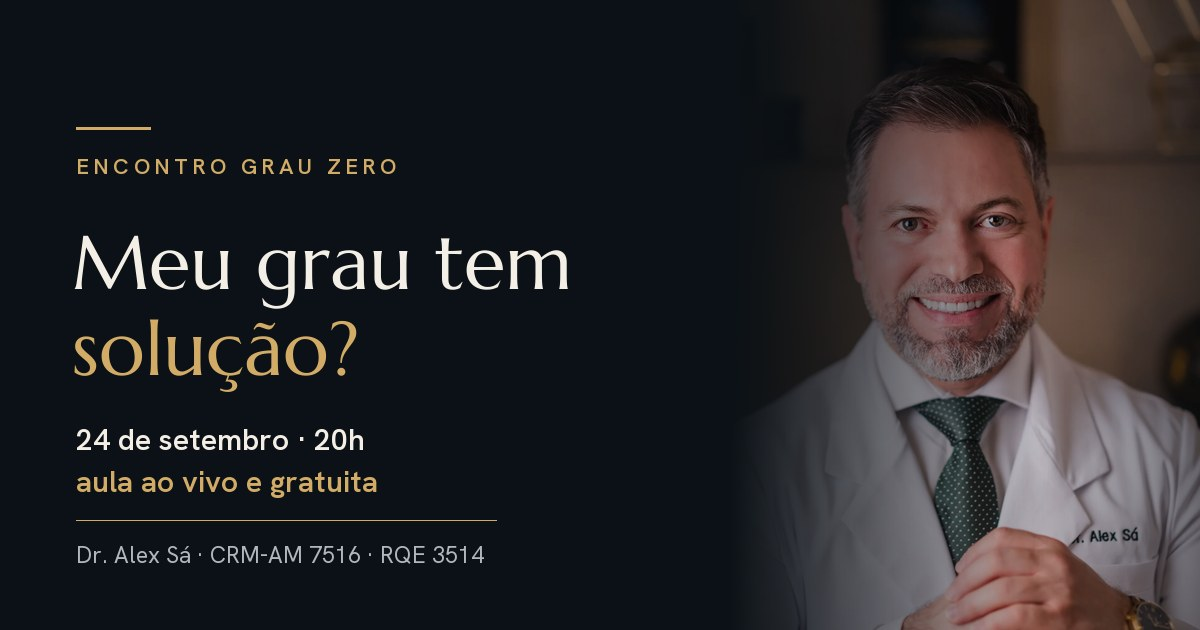
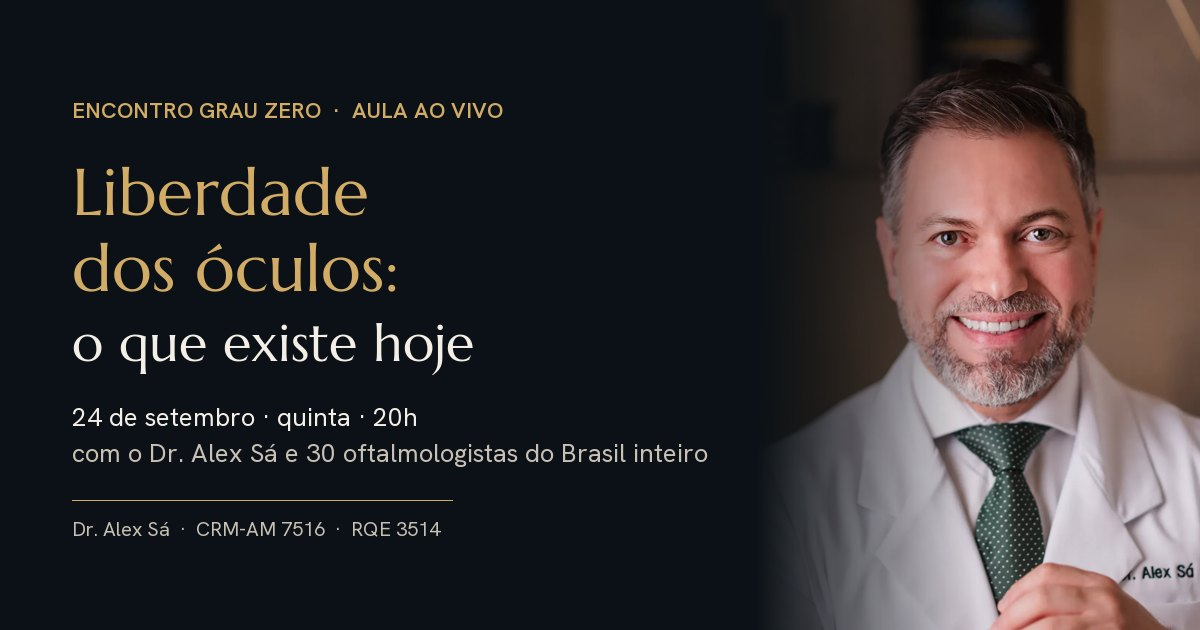
LP Encontro Grau Zero: copy v2 com o feedback do Dr. Alex
Headline vira "Liberdade dos oculos: o que existe hoje"; sub e bio citam os 30 oftalmologistas do Brasil inteiro;
presbiopia entra no caminho do laser; mito dos 40 passa a "laser ou troca do cristalino"; +30 mil cirurgias;
"gratuito" sai do hero, da barra fixa e do CTA final (fica na FAQ e no disclaimer). og.jpg regenerado.

diff --git a/public/encontro-grau-zero/index.html b/public/encontro-grau-zero/index.html
@@ -5,15 +5,15 @@
 <meta name="viewport" content="width=device-width, initial-scale=1">
 <meta name="robots" content="noindex, nofollow">
 <meta name="theme-color" content="#0B1116">
-<title>Encontro Grau Zero · Aula ao vivo e gratuita com o Dr. Alex Sá</title>
-<meta name="description" content="Dia 24 de setembro, às 20h, o Dr. Alex Sá (CRM-AM 7516 · RQE 3514) explica ao vivo os caminhos que existem hoje pra miopia e catarata. Gratuito.">
+<title>Encontro Grau Zero · Aula ao vivo com o Dr. Alex Sá</title>
+<meta name="description" content="24 de setembro, 20h: o Dr. Alex Sá (CRM-AM 7516 · RQE 3514) e 30 oftalmologistas explicam ao vivo os caminhos que existem hoje pra liberdade dos óculos.">
 <link rel="canonical" href="https://oftalmoblack.com.br/encontro-grau-zero/">
 <link rel="icon" href="assets/favicon.png" type="image/png">
 <meta property="og:type" content="website">
 <meta property="og:locale" content="pt_BR">
 <meta property="og:url" content="https://oftalmoblack.com.br/encontro-grau-zero/">
-<meta property="og:title" content="Encontro Grau Zero · Aula ao vivo e gratuita com o Dr. Alex Sá">
-<meta property="og:description" content="Dia 24 de setembro, às 20h, o Dr. Alex Sá (CRM-AM 7516 · RQE 3514) explica ao vivo os caminhos que existem hoje pra miopia e catarata. Gratuito.">
+<meta property="og:title" content="Encontro Grau Zero · Aula ao vivo com o Dr. Alex Sá">
+<meta property="og:description" content="24 de setembro, 20h: o Dr. Alex Sá (CRM-AM 7516 · RQE 3514) e 30 oftalmologistas explicam ao vivo os caminhos que existem hoje pra liberdade dos óculos.">
 <meta property="og:image" content="https://oftalmoblack.com.br/encontro-grau-zero/assets/og.jpg">
 <meta property="og:image:width" content="1200">
 <meta property="og:image:height" content="630">
@@ -392,9 +392,9 @@ body.cta-on .stickybar{transform:none}
 <section class="hero">
   <div class="hero-grid">
     <div class="hero-copy">
-      <p class="kicker rv">Encontro Grau Zero <span class="k-sep">·</span> <span class="k-2">aula ao vivo e gratuita</span></p>
-      <h1 class="rv" style="--d:.08s">Meu grau tem <em>solução?</em></h1>
-      <p class="lead rv" style="--d:.16s">Uma aula ao vivo com o Dr. Alex Sá sobre os caminhos que existem hoje pra miopia, astigmatismo, hipermetropia, vista cansada e catarata. E por que a indicação é sempre individualizada.</p>
+      <p class="kicker rv">Encontro Grau Zero <span class="k-sep">·</span> <span class="k-2">aula ao vivo</span></p>
+      <h1 class="rv" style="--d:.08s"><em>Liberdade dos óculos:</em> o que existe hoje</h1>
+      <p class="lead rv" style="--d:.16s">Uma aula ao vivo com o Dr. Alex Sá e 30 oftalmologistas do Brasil inteiro sobre os caminhos que existem hoje pra miopia, astigmatismo, hipermetropia, presbiopia (a vista cansada) e catarata. E por que a indicação é sempre individualizada.</p>
       <div class="datebar rv" style="--d:.24s">
         <div class="db-cell">
           <span class="db-big">24</span>
@@ -413,7 +413,6 @@ body.cta-on .stickybar{transform:none}
         <ul class="facts">
           <li>Ao vivo</li>
           <li>Online</li>
-          <li>Gratuito</li>
           <li>60 minutos com perguntas</li>
         </ul>
       </div>
@@ -457,7 +456,7 @@ body.cta-on .stickybar{transform:none}
     <ol class="caminhos">
       <li class="rv">
         <h3>Laser</h3>
-        <p>Miopia, astigmatismo e hipermetropia, pra quem depende do óculos o dia inteiro. Procedimento de minutos, com colírio anestésico, sem internação e com alta no mesmo dia.</p>
+        <p>Miopia, astigmatismo, hipermetropia e presbiopia (a vista cansada), pra quem depende do óculos o dia inteiro. Procedimento de minutos, com colírio anestésico, sem internação e com alta no mesmo dia.</p>
       </li>
       <li class="rv" style="--d:.06s">
         <h3>Lente que entra dentro do olho</h3>
@@ -494,7 +493,7 @@ body.cta-on .stickybar{transform:none}
       </div>
       <div class="mito-row rv">
         <dt><span class="sr">Mito: </span>Depois dos 40 não dá mais.</dt>
-        <dd><span class="sr">Verdade: </span><svg viewBox="0 0 24 24" aria-hidden="true" focusable="false"><path d="M4 12.6 9.2 18 20 6.6"/></svg>Depois dos 40 é justamente quando a troca do cristalino entra na conversa.</dd>
+        <dd><span class="sr">Verdade: </span><svg viewBox="0 0 24 24" aria-hidden="true" focusable="false"><path d="M4 12.6 9.2 18 20 6.6"/></svg>Depois dos 40 é justamente quando o laser ou a troca do cristalino entram na conversa.</dd>
       </div>
       <div class="mito-row rv">
         <dt><span class="sr">Mito: </span>Cirurgia de grau é demorada e arriscada.</dt>
@@ -576,11 +575,12 @@ body.cta-on .stickybar{transform:none}
       <p class="bio-reg">CRM-AM 7516 · RQE 3514</p>
       <p class="txt">Cirurgião oftalmologista, especialista em catarata e cirurgia refrativa, à frente da Clínica Dr. Alex Sá, em Manaus.</p>
       <p class="txt">Foi professor da Universidade Federal do Amazonas por seis anos e é preceptor do fellowship em cirurgia de catarata do Hospital Universitário Getúlio Vargas, onde ajuda a formar outros cirurgiões. Autor do livro "Cirurgia de Catarata: habilitando-se para o aprendizado".</p>
+      <p class="txt">No Encontro, ele reúne 30 oftalmologistas do Brasil inteiro, colegas que atendem em diferentes cidades e estados.</p>
     </div>
   </div>
   <div class="wrap">
     <div class="numeros rv">
-      <div class="numero"><b>+25 mil</b><span>cirurgias realizadas</span></div>
+      <div class="numero"><b>+30 mil</b><span>cirurgias realizadas</span></div>
       <div class="numero"><b>+15 anos</b><span>de oftalmologia</span></div>
       <div class="numero"><b>6 anos</b><span>como professor na UFAM</span></div>
     </div>
@@ -627,7 +627,7 @@ body.cta-on .stickybar{transform:none}
   </div>
   <div class="wrap">
     <h2 class="rv">Dia 24, às 20h. Entra no grupo e recebe o link.</h2>
-    <p class="sec-intro rv">A aula é ao vivo, online e gratuita. O link da transmissão é publicado no grupo do WhatsApp, junto com os avisos até o dia 24.</p>
+    <p class="sec-intro rv">A aula é ao vivo e online. O link da transmissão é publicado no grupo do WhatsApp, junto com os avisos até o dia 24.</p>
     <p class="final-when rv"><b>24 de setembro · quinta · 20h</b><span>horário de Brasília</span></p>
     <div class="rv">
       <a class="btn btn-lg js-grupo" href="https://chat.whatsapp.com/CGRmhWTrWj49L9r0OQq37T" target="_blank" rel="noopener">
@@ -649,7 +649,7 @@ body.cta-on .stickybar{transform:none}
 </footer>
 
 <div class="stickybar" id="stickybar">
-  <strong>24/09 · 20h<br>gratuito</strong>
+  <strong>24/09 · 20h<br>ao vivo</strong>
   <a class="btn btn-sm js-grupo" href="https://chat.whatsapp.com/CGRmhWTrWj49L9r0OQq37T" target="_blank" rel="noopener">
     <svg class="wa" aria-hidden="true" focusable="false"><use href="#i-wa"></use></svg>
     Entrar no grupo
